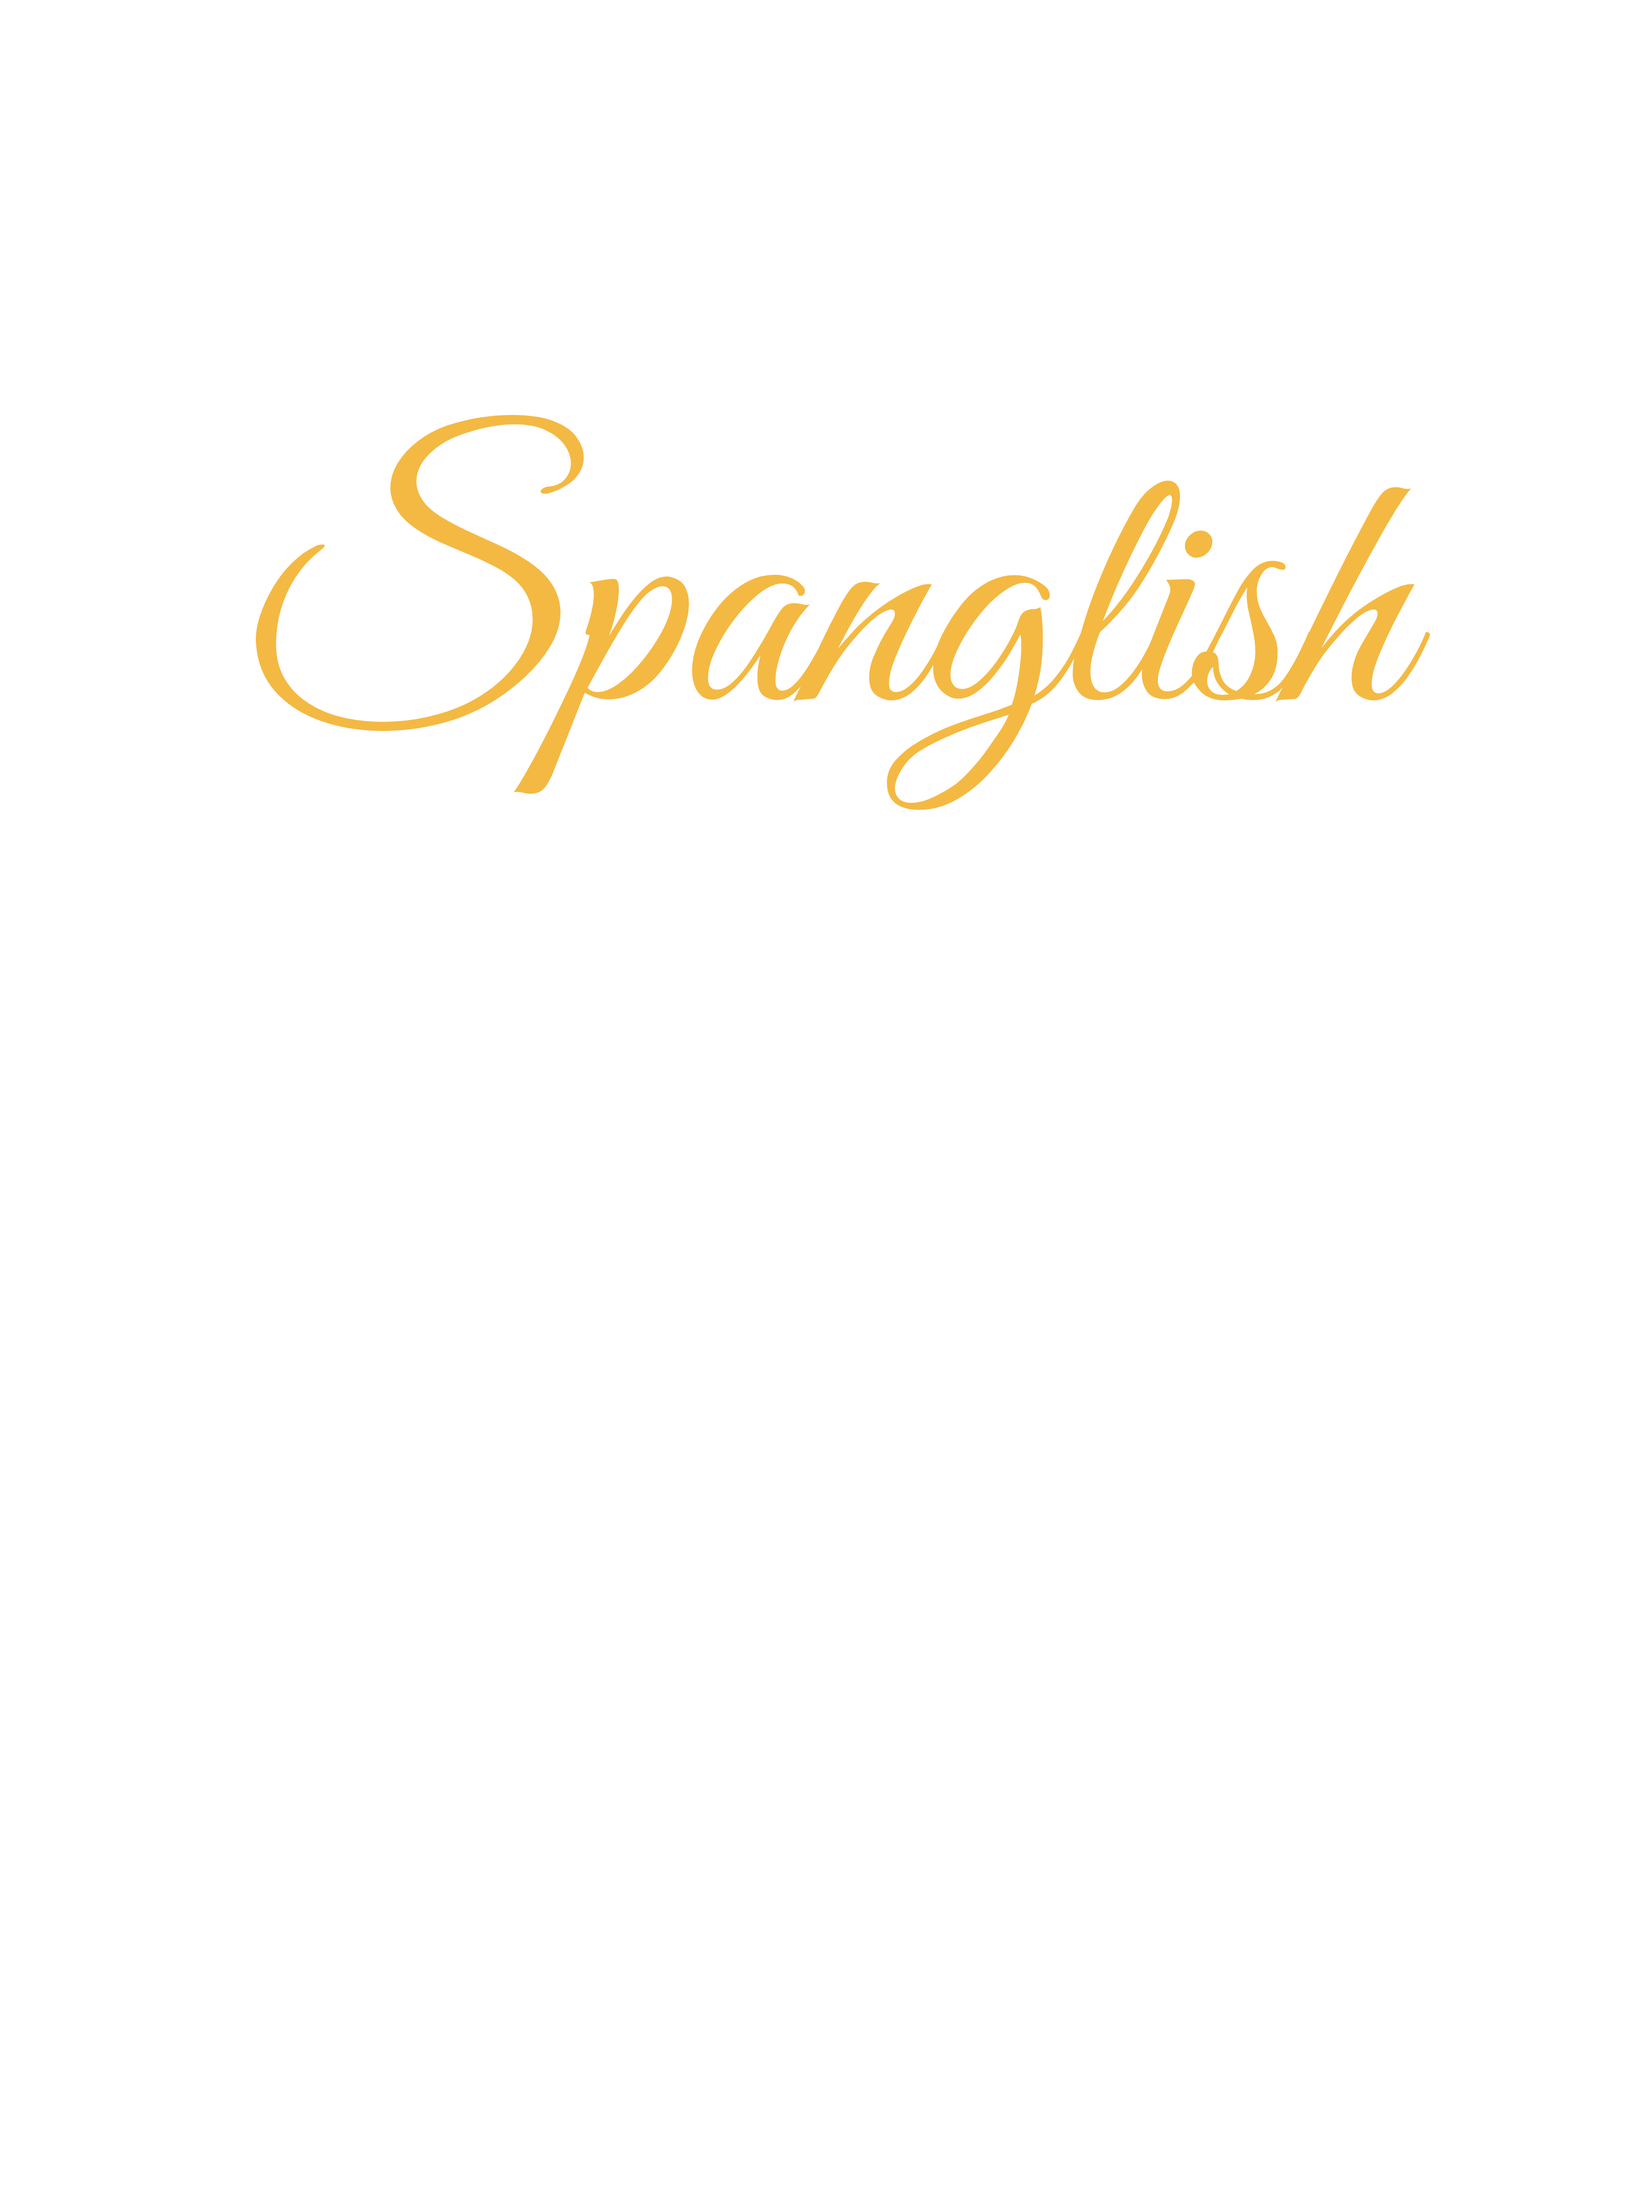
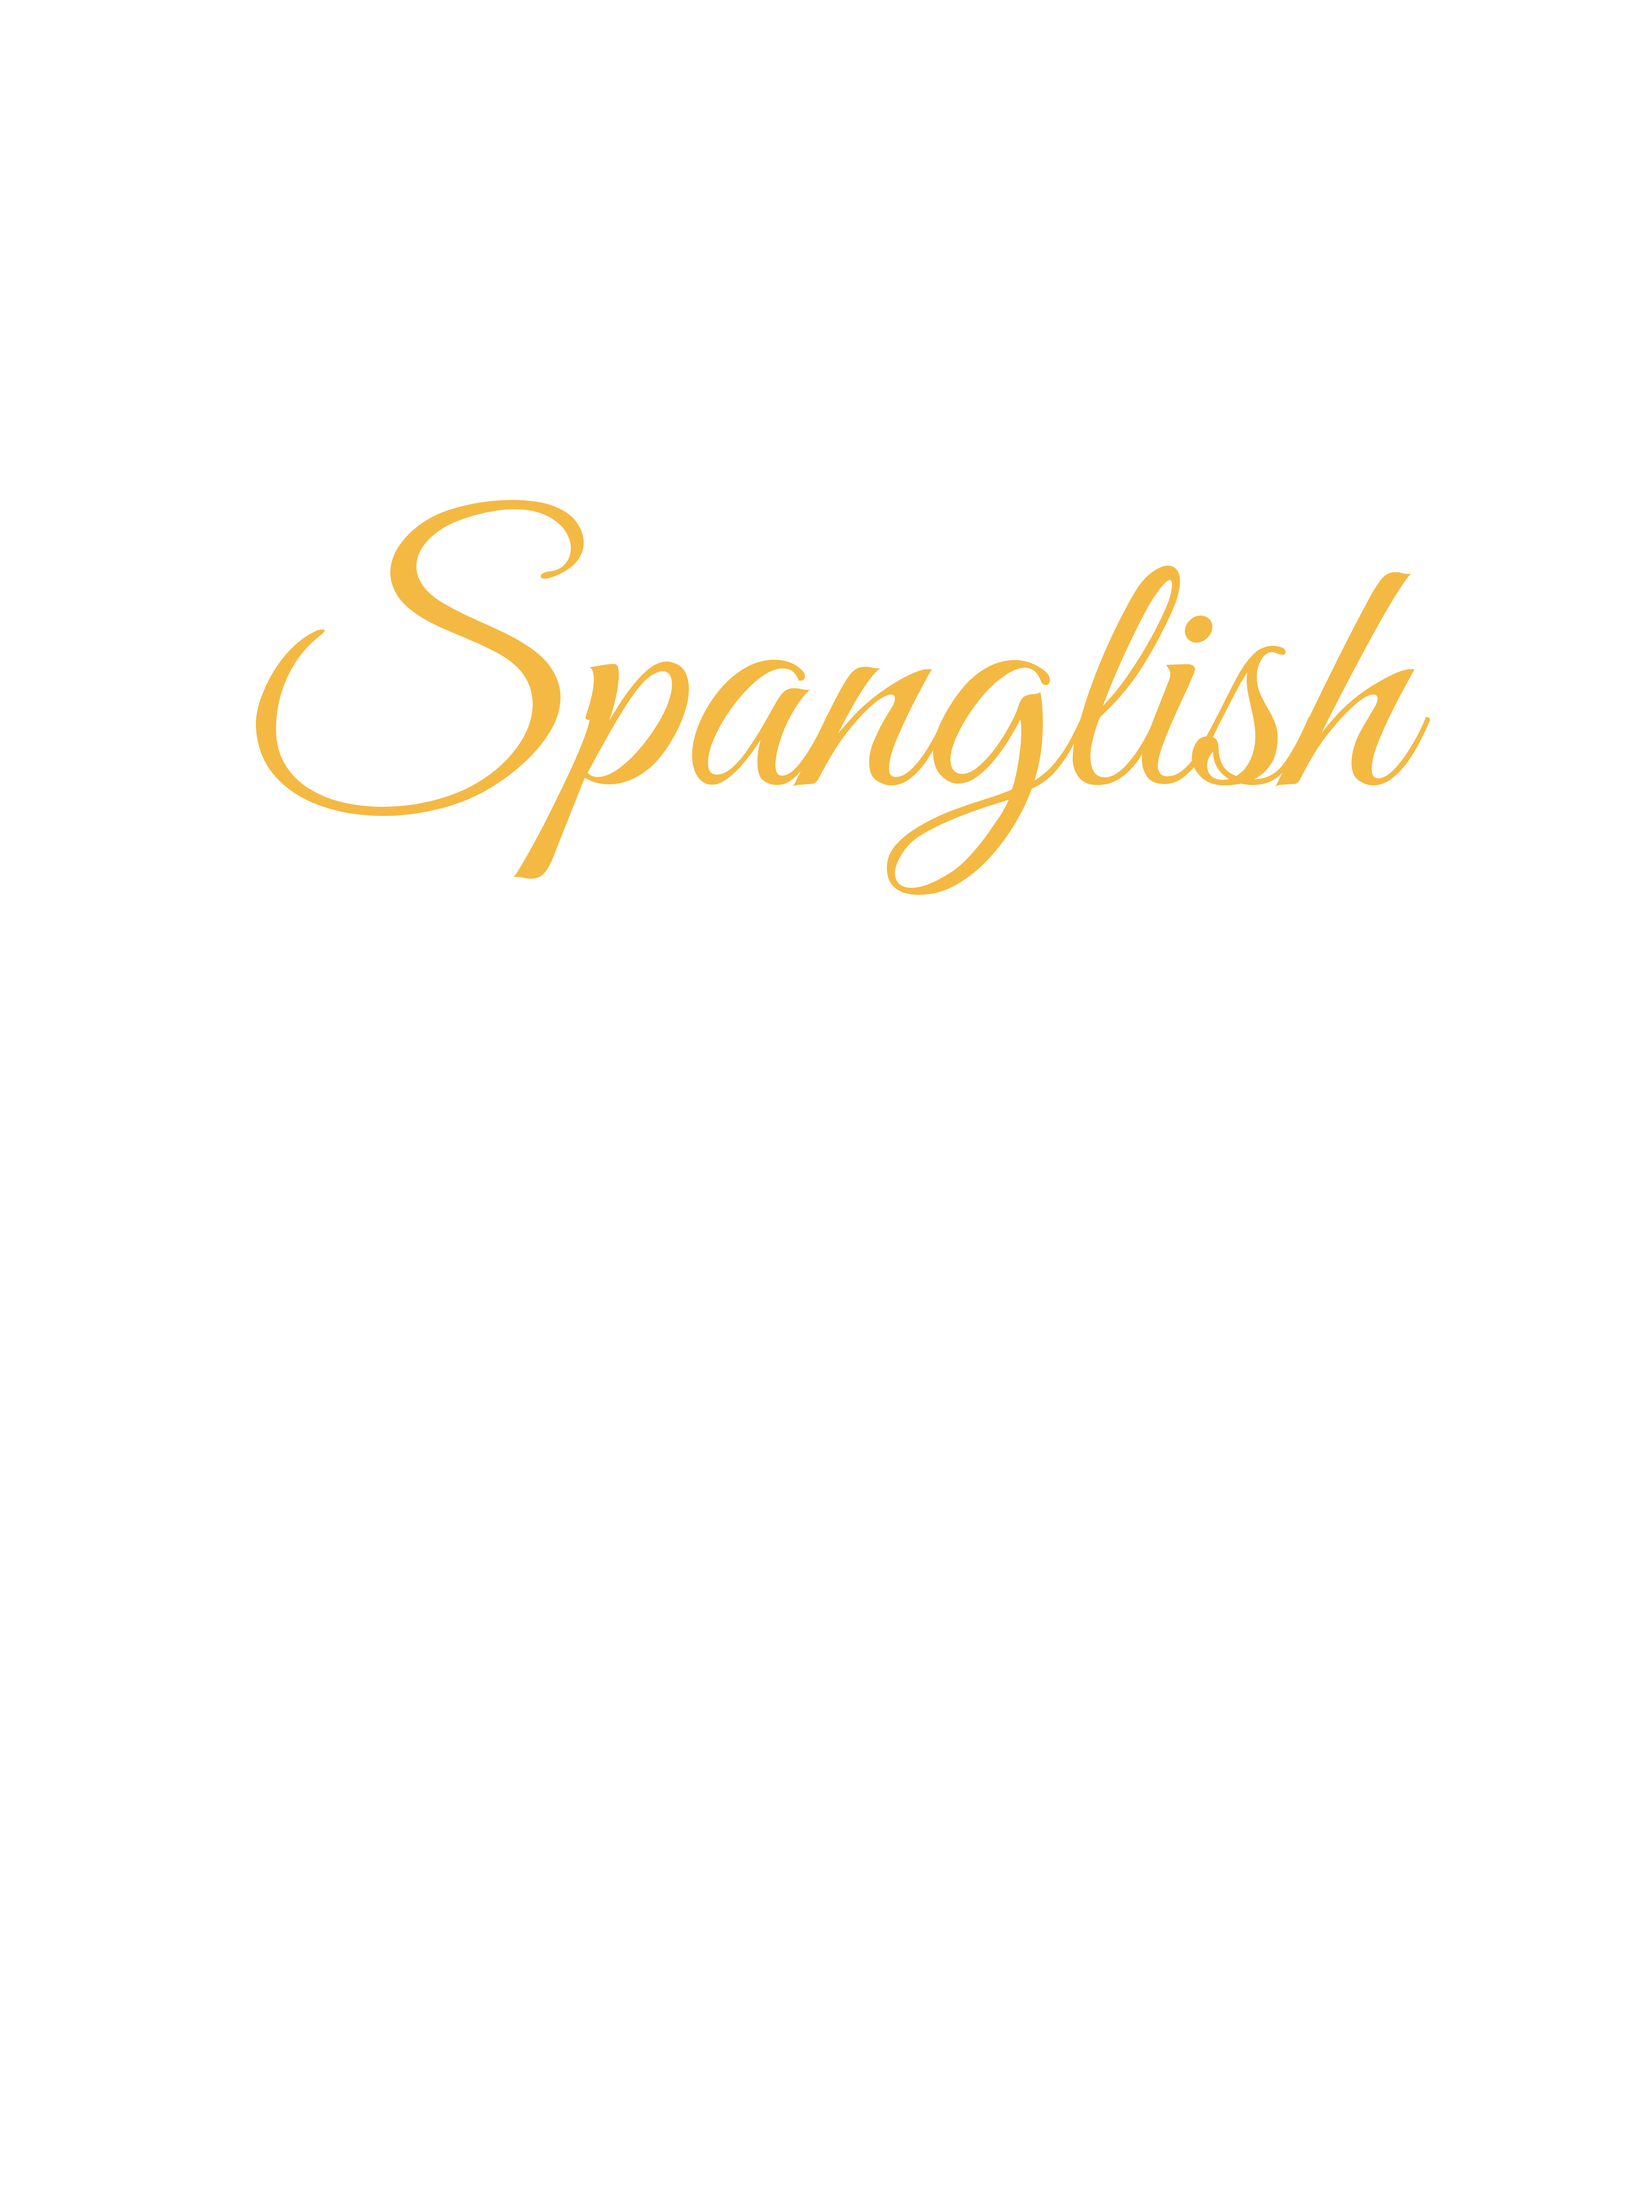
Batch 3: add spacing between script and caption text
Claude-Session: https://claude.ai/code/session_016J2nU7A2YAX41gT6f3cs1D

Changed region(s): [[0.1556, 0.1875, 0.8711, 0.4062]]

diff --git a/docs/unity-keepsakes/design-scripts/batch3/designs.py b/docs/unity-keepsakes/design-scripts/batch3/designs.py
@@ -3,7 +3,7 @@ import os,sys,json
 OUT=sys.argv[1]; os.makedirs(OUT+'/html',exist_ok=True)
 F='<link href="https://fonts.googleapis.com/css2?family=Great+Vibes&family=Playfair+Display:ital,wght@0,700;1,500&family=Montserrat:wght@600;800&family=Fredoka:wght@600;700&family=Oswald:wght@700&display=swap" rel="stylesheet">'
 def pg(w,h,body,bg='transparent',align='flex-start',pad=0):
-    return (w,h,bg=='transparent',f'<html><head>{F}<style>html,body{{margin:0;background:transparent}}.c{{width:{w}px;height:{h}px;background:{bg};display:flex;flex-direction:column;align-items:center;justify-content:{align};text-align:center;overflow:hidden;box-sizing:border-box;padding-top:{pad}px}}</style></head><body><div class="c">{body}</div></body></html>')
+    return (w,h,bg=='transparent',f'<html><head>{F}<style>html,body{{margin:0;background:transparent}}div[style*="Great Vibes"]{{line-height:1.3!important;margin-top:36px!important;margin-bottom:14px!important}}.c{{width:{w}px;height:{h}px;background:{bg};display:flex;flex-direction:column;align-items:center;justify-content:{align};text-align:center;overflow:hidden;box-sizing:border-box;padding-top:{pad}px}}</style></head><body><div class="c">{body}</div></body></html>')
 J={}
 def dual(name,fn,light,dark,w=1800,h=2400,pad=160):
     J[name+'_light']=pg(w,h,fn(*light),pad=pad); J[name+'_dark']=pg(w,h,fn(*dark),pad=pad)
